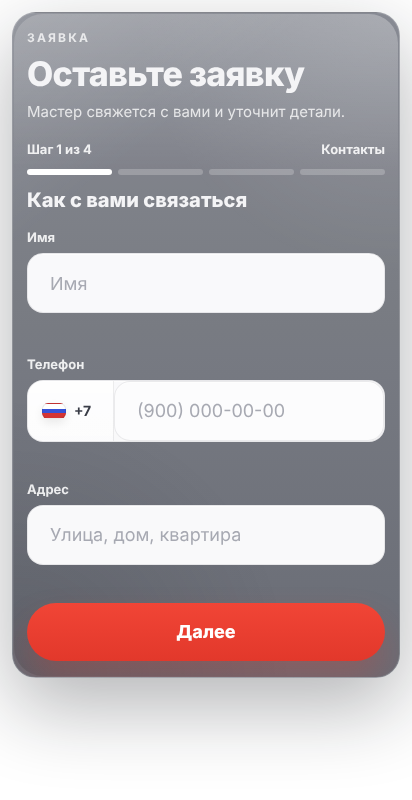
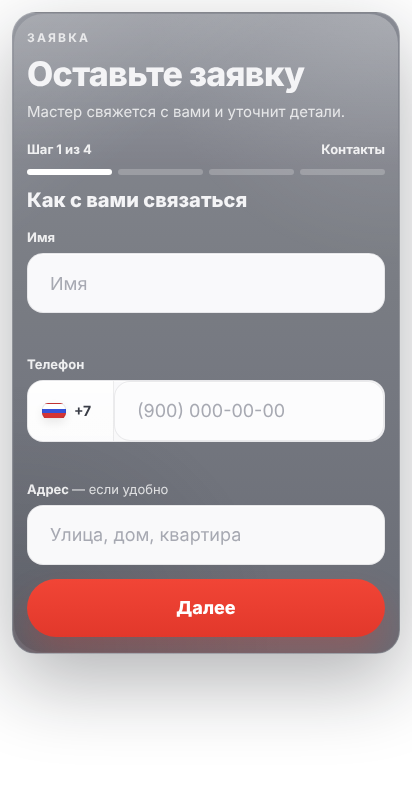
Require only name and phone in the partner request wizard
Address, problem and brand become optional, as decided by the owner.
The review screen shows «Не указано» for skipped answers, and an empty
address or problem is sent as «Уточнить у клиента» because the dispatch
intake requires a non-empty address.

Claude-Session: https://claude.ai/code/session_01TYhxt3HrLH5vE3k7HHQVuK

Changed region(s): [[0.0291, 0.7188, 0.9903, 0.875], [0.2039, 0.5938, 0.4078, 0.625]]

diff --git a/public/assets/form/dom-servis-partner-embed.html b/public/assets/form/dom-servis-partner-embed.html
@@ -443,6 +443,12 @@
       clear: both;
     }
 
+    .wizard__hint {
+      margin: 0;
+      color: var(--muted);
+      font-size: 14px;
+    }
+
     .field__optional {
       color: var(--muted);
       font-weight: 400;
@@ -1011,7 +1017,6 @@
         const value = String(message || '').toLowerCase();
         if (field === 'name' || value.includes('name')) return 'Введите имя';
         if (field === 'dom_servis_client_phone') return 'Введите телефон';
-        if (field === 'address' || field === 'dom_servis_address') return 'Укажите адрес';
         if (field === 'privacy') return 'Подтвердите согласие с политикой';
         if (value.includes('forbidden') || value.includes('paused')) return 'Форма временно недоступна';
         return 'Не удалось отправить заявку';
@@ -1025,11 +1030,6 @@
         if (fields.includes('dom_servis_client_phone') && normalizePhone(values.phone).length < 10) {
           errors.dom_servis_client_phone = 'Введите телефон полностью';
         }
-        if (fields.includes('address') && values.address.length < 5) errors.address = 'Укажите улицу и дом';
-        if (fields.includes('problem') && !values.problem && values.problemDetails.length < 3) {
-          errors.problem = 'Выберите вариант или опишите поломку';
-        }
-        if (fields.includes('brand') && !values.brand) errors.brand = 'Выберите марку или нажмите «Не знаю»';
         if (fields.includes('privacy') && !values.privacyAccepted) errors.privacy = 'Подтвердите согласие с политикой';
 
         return errors;
@@ -1049,6 +1049,9 @@
         scheduleResize();
       }
 
+      const NOT_SPECIFIED = 'Не указано';
+      const ASK_CLIENT = 'Уточнить у клиента';
+
       function problemSummary(values) {
         return [values.problem, values.problemDetails].filter(Boolean).join('. ');
       }
@@ -1058,10 +1061,10 @@
           'Клиент оставил заявку через сайт партнёра.',
           `Имя клиента: ${values.name}.`,
           `Телефон клиента: ${phone}.`,
-          `Адрес: ${values.address}.`,
-          `Поломка: ${problemSummary(values)}.`,
-          `Марка техники: ${values.brand}.`,
-          'Нужно уточнить дату и время визита.'
+          `Адрес: ${values.address || 'не указан'}.`,
+          `Поломка: ${problemSummary(values) || 'не указана'}.`,
+          `Марка техники: ${values.brand || 'не указана'}.`,
+          'Нужно уточнить недостающие детали, дату и время визита.'
         ].join(' ');
       }
 
@@ -1118,9 +1121,8 @@
             </div>
 
             <div class="field">
-              <label for="address">Адрес</label>
+              <label for="address">Адрес <span class="field__optional">— если удобно</span></label>
               <input id="address" name="address" type="text" autocomplete="street-address" placeholder="Улица, дом, квартира" maxlength="300">
-              <div class="field-error" data-error-for="address"></div>
             </div>
           </fieldset>
 
@@ -1133,7 +1135,7 @@
               <label for="problem_details">Опишите подробнее <span class="field__optional">— если хотите</span></label>
               <textarea id="problem_details" name="problem_details" rows="3" maxlength="1000" placeholder="Например: стиральная машина не сливает воду, на экране ошибка E18"></textarea>
             </div>
-            <div class="field-error" data-error-for="problem"></div>
+            <p class="wizard__hint">Можно пропустить — мастер уточнит по телефону.</p>
           </fieldset>
 
           <fieldset class="wizard__step" data-step="2" hidden>
@@ -1145,7 +1147,7 @@
               <label for="brand_other">Другая марка</label>
               <input id="brand_other" name="brand_other" type="text" placeholder="Например: Gorenje" maxlength="80">
             </div>
-            <div class="field-error" data-error-for="brand"></div>
+            <p class="wizard__hint">Можно пропустить — мастер уточнит по телефону.</p>
           </fieldset>
 
           <fieldset class="wizard__step" data-step="3" hidden>
@@ -1210,7 +1212,7 @@
           form.querySelector('.js-summary').innerHTML = rows.map(([label, value, step]) => `
             <div class="summary__row">
               <dt>${label}</dt>
-              <dd>${escapeHtml(value)}</dd>
+              <dd>${escapeHtml(value || NOT_SPECIFIED)}</dd>
               <button type="button" class="summary__edit" data-goto="${step}" aria-label="Изменить: ${label}">Изменить</button>
             </div>
           `).join('');
@@ -1274,14 +1276,9 @@
           updateSubmitState();
         });
 
-        form.querySelectorAll('[name="problem"], [name="problem_details"]').forEach((input) => {
-          input.addEventListener('input', () => setFieldError('problem', ''));
-        });
-
         form.querySelectorAll('[name="brand"]').forEach((input) => {
           input.addEventListener('change', () => {
             brandOther.value = '';
-            setFieldError('brand', '');
           });
         });
 
@@ -1289,11 +1286,9 @@
           if (brandOther.value.trim()) {
             form.querySelectorAll('[name="brand"]').forEach((input) => { input.checked = false; });
           }
-          setFieldError('brand', '');
         });
 
         form.querySelector('[name="name"]').addEventListener('input', () => setFieldError('name', ''));
-        form.querySelector('[name="address"]').addEventListener('input', () => setFieldError('address', ''));
 
         phoneInput.addEventListener('input', () => {
           const cursor = phoneInput.selectionStart || 0;
@@ -1337,7 +1332,8 @@
           const name = values.name;
           const phone = submitPhoneValue(values.phone);
           const description = submitDescription(values, phone);
-          const serviceType = `Ремонт: ${values.problem || values.problemDetails}`.slice(0, 200);
+          const problem = values.problem || values.problemDetails;
+          const serviceType = problem ? `Ремонт: ${problem}`.slice(0, 200) : ASK_CLIENT;
 
           const payload = new FormData();
           payload.set('fingerprint', state.fingerprint);
@@ -1351,13 +1347,14 @@
           payload.set('dom_servis_client_name', name);
           payload.set('dom_servis_client_phone', phone);
           payload.set('dom_servis_service_type', serviceType);
-          payload.set('dom_servis_address', values.address);
+          // The dispatch intake requires an address, so an empty one becomes a call-back reminder.
+          payload.set('dom_servis_address', values.address || ASK_CLIENT);
           payload.set('dom_servis_visit_date', dispatchDate);
           payload.set('dom_servis_visit_day', weekdayKey(dispatchDate));
-          payload.set('dom_servis_visit_time', 'Уточнить у клиента');
+          payload.set('dom_servis_visit_time', ASK_CLIENT);
           payload.set('dom_servis_dispatch_priority', 'medium');
           payload.set('dom_servis_description', description);
-          payload.set('dom_servis_comment', 'Дату и время визита нужно уточнить у клиента.');
+          payload.set('dom_servis_comment', 'Недостающие детали, дату и время визита нужно уточнить у клиента.');
 
           state.submitting = true;
           updateSubmitState();

diff --git a/docs/overnight/tools/wizard-test.js b/docs/overnight/tools/wizard-test.js
@@ -50,8 +50,6 @@ const html = fs.readFileSync(file, 'utf8');
     await page.waitForSelector('[data-step="1"]:not([hidden])');
     await page.waitForTimeout(350);
     r.steps.push(await metrics('2')); 
-    await page.click('.js-next');
-    r.step2Error = await page.textContent('[data-error-for="problem"]');
     await shot('step2');
     await page.click('text=Течёт вода');
     await page.fill('#problem_details', 'Стиральная машина течёт снизу');
@@ -66,8 +64,6 @@ const html = fs.readFileSync(file, 'utf8');
     r.backKeepsContacts = (await page.inputValue('#address')).includes('Ленина') && (await page.inputValue('#dom_servis_client_phone')) === '(900) 123-45-67';
     await page.click('.js-next'); await page.waitForTimeout(350);
     await page.click('.js-next'); await page.waitForTimeout(350);
-    await page.click('.js-next');
-    r.step3Error = await page.textContent('[data-error-for="brand"]');
     await page.click('text=Bosch');
     await page.click('.js-next');
     await page.waitForSelector('[data-step="3"]:not([hidden])');
@@ -86,6 +82,22 @@ const html = fs.readFileSync(file, 'utf8');
     const fields = {};
     (submitted || '').split(/------\S+/).forEach((part) => { const m = part.match(/name="([^"]+)"\r\n\r\n([\s\S]*?)\r\n$/); if (m) fields[m[1]] = m[2]; });
     r.payload = fields;
+
+    // Only name and phone are required: skip address, problem and brand.
+    submitted = null;
+    await page.goto('https://stand.test/assets/form/dom-servis-partner-embed.html');
+    await page.waitForSelector('.wizard');
+    await page.fill('#name', 'Пётр Иванов');
+    await page.fill('#dom_servis_client_phone', '9007654321');
+    for (let i = 0; i < 3; i += 1) { await page.click('.js-next'); await page.waitForTimeout(350); }
+    r.minimalReachedConfirm = await page.isVisible('[data-step="3"]');
+    if (width === 360 && tag) await shot('step4-minimal');
+    await page.check('#privacy_accepted');
+    await page.click('.js-next');
+    await page.waitForSelector('.success');
+    const minimal = {};
+    (submitted || '').split(/------\S+/).forEach((part) => { const m = part.match(/name="([^"]+)"\r\n\r\n([\s\S]*?)\r\n$/); if (m) minimal[m[1]] = m[2]; });
+    r.minimalPayload = { address: minimal.dom_servis_address, service: minimal.dom_servis_service_type, body: minimal.body };
     r.errs = errs;
     results.push(r);
     await page.close();

diff --git a/docs/overnight/PROGRESS.md b/docs/overnight/PROGRESS.md
@@ -127,8 +127,8 @@ Push-доступ у задачи есть (`git push --dry-run` прошёл).
   Шаг 3 «Марка техники»: 8 марок + «Не знаю» + поле «Другая марка». Шаг 4 «Проверка»: сводка со ссылками
   «Изменить» на нужный шаг, согласие с политикой, «Отправить заявку».
 - Индикатор «Шаг N из 4» + полоса из 4 сегментов (`role="progressbar"`), «Назад»/«Далее», Enter = «Далее».
-- Валидация на каждом шаге: имя; телефон 10 цифр; адрес ≥ 5 символов; поломка — чип или текст ≥ 3 символов;
-  марка — чип или своё название; согласие. Ошибки сервера (`name`, `dom_servis_client_phone`…) возвращают на шаг поля.
+- Валидация: имя; телефон 10 цифр; согласие (адрес, поломка, марка — необязательны, см. решение Ивана ниже).
+  Ошибки сервера (`name`, `dom_servis_client_phone`…) возвращают на шаг поля.
 - Все шаги остаются в DOM, поэтому введённое сохраняется при возврате (проверено тестом).
 - Плавная смена шага (сдвиг 24 px + прозрачность, 0,28 с), отключается при `prefers-reduced-motion`.
   Фокус переходит на заголовок нового шага — экранный диктор его зачитывает.
@@ -138,7 +138,7 @@ Push-доступ у задачи есть (`git push --dry-run` прошёл).
   `title` — «Заявка на ремонт» (было «Заявка на обратный звонок», в коде на заголовок ничего не завязано — grep).
 
 Проверка: `docs/overnight/tools/wizard-test.js` (Playwright, API подменено через `page.route`), ширины 360/390/412:
-пустая отправка → 3 ошибки и остаёмся на шаге 1; без выбора поломки/марки → ошибки; «Назад» сохраняет поля;
+пустая отправка → 2 ошибки (имя, телефон) и остаёмся на шаге 1; «Назад» сохраняет поля;
 «Отправить» неактивна без согласия; «Изменить» ведёт на нужный шаг; отправка → экран «Заявка отправлена».
 На всех шагах: гориз. прокрутки нет, выхода за край нет, все кнопки/чипы/поля ≥ 44×44, ошибок JS нет.
 Отчёт с отправленным payload: `screenshots/task4/wizard-report.json`.
@@ -148,8 +148,13 @@ Push-доступ у задачи есть (`git push --dry-run` прошёл).
 **Не проверено:** `spec/requests/form_spec.rb` не запускался (Zammad не поднят) — но сервер и набор полей не менялись,
 спек шлёт параметры сам. Живой стенд и реальный телефон не проверялись.
 
-**Решение за Иваном:** адрес стал обязательным полем для клиента (раньше форма собирала только имя и телефон).
-Если партнёрам нужна короткая форма «перезвоните мне» — скажите, сделаю адрес необязательным.
+**Решение Ивана (07.10):** обязательны только имя (ФИО) и телефон. Адрес, поломка и марка — необязательны:
+на шагах 2–3 подсказка «Можно пропустить — мастер уточнит по телефону», в сводке «Не указано».
+Пустой адрес и пустая поломка уходят на сервер как «Уточнить у клиента» — приём заявки на доску
+(`DomServis::Intake::TicketAdapter#required_ticket_value(:dom_servis_address)`) требует непустой адрес.
+Прогон `wizard-test.js` дополнен сценарием «только имя и телефон» (360/390/412): доходит до проверки, отправляется,
+`dom_servis_address` = `dom_servis_service_type` = «Уточнить у клиента».
+Скриншот `screenshots/task4/after-step4-minimal-360.png`.
 
 ## Подсказки следующему запуску
 
